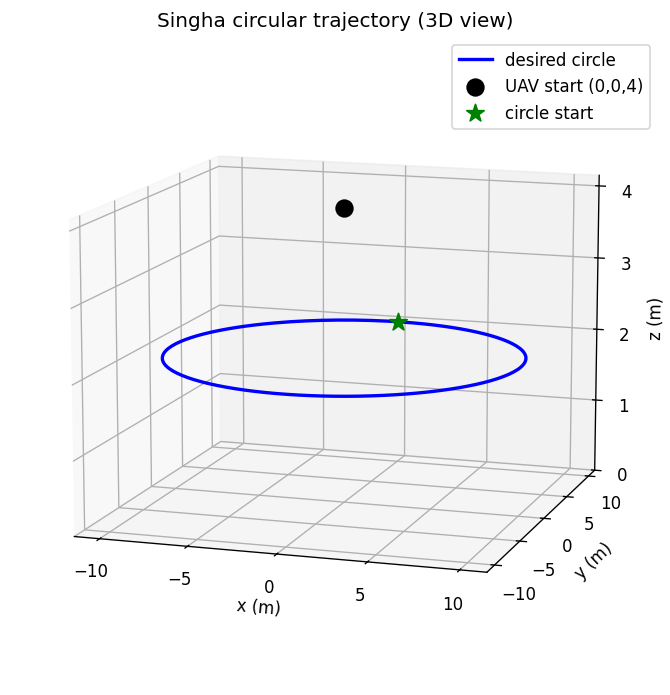
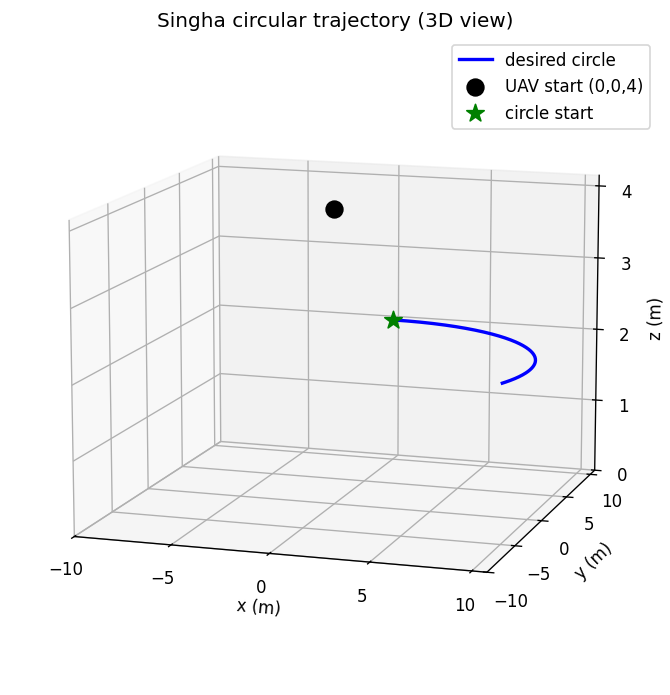
Add circle scenario: refernce, flight (R=10 omega=0.3), dataset, observer training + eval

diff --git a/scenarios/circle/train_circle.py b/scenarios/circle/train_circle.py
@@ -1,0 +1,71 @@
+"""Train PINN observer on the circle dataset."""
+import sys, os
+# 2 levels deep (scenarios/circle/) -> 3 dirnames to reach repo root
+sys.path.append(os.path.dirname(os.path.dirname(os.path.dirname(os.path.abspath(__file__)))))
+
+import numpy as np, torch
+from models.pinn_observer import PINNObserver
+from training.losses import physics_loss      # shared loss stays in training/
+
+torch.manual_seed(0)
+N_EPOCHS = 600; LR = 1e-3; NOISE_STD = 0.02
+LAMBDA_PHYS = 1.0; LAMBDA_INIT = 1.0; BATCH = 2000
+
+data = np.load("datasets/circle_dataset.npz")
+T = data["T"]; X = data["X"]; U = data["U"]
+N_traj, N_steps, n_states = X.shape
+
+X_all = X.reshape(-1, n_states)
+sigma = X_all.std(axis=0)
+sigma = np.where(sigma < 1e-6, 1.0, sigma)
+sigma_t = torch.tensor(sigma, dtype=torch.float32)
+print("Per-state sigma:", np.round(sigma, 3))
+
+t_flat = np.tile(T, N_traj).reshape(-1, 1)
+U_flat = U.reshape(-1, 4)
+rng = np.random.default_rng(0)
+Y_flat = X_all + rng.normal(0, NOISE_STD, X_all.shape)
+N_samples = X_all.shape[0]
+X0 = X[:, 0, :]; t0 = np.zeros((N_traj, 1))
+Y0 = X0 + rng.normal(0, NOISE_STD, X0.shape)
+
+t_all = torch.tensor(t_flat, dtype=torch.float32)
+Y_all = torch.tensor(Y_flat, dtype=torch.float32)
+U_all = torch.tensor(U_flat, dtype=torch.float32)
+t0_t = torch.tensor(t0, dtype=torch.float32)
+Y0_t = torch.tensor(Y0, dtype=torch.float32)
+X0_t = torch.tensor(X0, dtype=torch.float32)
+
+def dl(m,t,y,s): return torch.mean(((m(t,y)-y)/s)**2)
+def il(m,t,y,x,s): return torch.mean(((m(t,y)-x)/s)**2)
+
+model = PINNObserver(hidden=256, n_hidden_layers=3)   # v3 capacity (best)
+opt = torch.optim.Adam(model.parameters(), lr=LR)
+gen = np.random.default_rng(1)
+
+print(f"\nNetwork 3x256 | Batch {BATCH} | Epochs {N_EPOCHS}")
+print("Epoch |   Total  |   Data   | Physics  | Initial")
+print("-"*52)
+for e in range(N_EPOCHS):
+    idx = gen.integers(0, N_samples, size=BATCH)
+    tb, yb, ub = t_all[idx], Y_all[idx], U_all[idx]
+    opt.zero_grad()
+    ld = dl(model, tb, yb, sigma_t)
+    lp = physics_loss(model, tb, yb, ub)
+    li = il(model, t0_t, Y0_t, X0_t, sigma_t)
+    tot = ld + LAMBDA_PHYS*lp + LAMBDA_INIT*li
+    tot.backward(); opt.step()
+    if e%30==0 or e==N_EPOCHS-1:
+        print(f"{e:5d} | {tot.item():8.4f} | {ld.item():8.4f} | {lp.item():8.4f} | {li.item():8.4f}")
+
+torch.save(model.state_dict(), "models/pinn_circle.pth")
+print("\nSaved -> models/pinn_circle.pth")
+
+# per-state RMS error (to measure which states improved)
+with torch.no_grad():
+    est = model(t_all, Y_all).numpy()
+per_state_err = np.sqrt(((est - X_all)**2).mean(axis=0))
+names = ["x","y","z","vx","vy","vz","phi","th","psi","p","q","r"]
+print("\nPer-state RMS error (err / sigma = relative):")
+for n, e, s in zip(names, per_state_err, sigma):
+    print(f"  {n:4s}: err={e:7.3f}  sigma={s:6.3f}  relative={e/s:6.1%}")

diff --git a/scenarios/circle/simulate_circle.py b/scenarios/circle/simulate_circle.py
@@ -55,8 +55,12 @@ def outer_loop_ff(x, U1, pos_d, vel_d, psi):
 
 # ===== simulate =====
 x0 = np.zeros(12)
-x0[0], x0[1], x0[2] = 0.0, 0.0, 4.0          # Singha start (0,0,4)
-x0[6], x0[7], x0[8] = 0.087, 0.1042, 0.209   # Singha initial angles
+# ISOLATION TEST: teleport onto the circle at t=0, moving with it
+pos0, vel0, _ = circular_reference(0.0)      # circle's position & velocity at t=0
+x0[0], x0[1], x0[2] = pos0                    # pos = (0, 10, 2)
+x0[3], x0[4], x0[5] = vel0                    # vel = (10, 0, 0)  <- matches circle motion
+# small initial tilt (Singha angles), yaw matches yaw_reference(0)=0
+x0[6], x0[7], x0[8] = 0.087, 0.1042, 0.0
 
 t_end = 4*np.pi                               # ~2 full circles
 t_eval = np.arange(0.0, t_end, 0.01)
@@ -74,16 +78,20 @@ P = np.array([circular_reference(t)[0] for t in t_eval])
 
 # 3D plot: ACTUAL connected flight path + desired circle
 # DIAGNOSTIC: every key variable vs time
+# use the solver's ACTUAL returned times (handles early-stop safely)
+tt = sol.t
+P = np.array([circular_reference(t)[0] for t in tt])
+
 fig, ax = plt.subplots(2, 3, figsize=(15, 8))
-ax[0,0].plot(t_eval, x, 'b', label='actual'); ax[0,0].plot(t_eval, P[:,0], 'r--', label='desired'); ax[0,0].set_title("x"); ax[0,0].legend()
-ax[0,1].plot(t_eval, y, 'b'); ax[0,1].plot(t_eval, P[:,1], 'r--'); ax[0,1].set_title("y")
-ax[0,2].plot(t_eval, z, 'b'); ax[0,2].axhline(2, color='r', ls='--'); ax[0,2].set_title("z (target=2)")
-ax[1,0].plot(t_eval, sol.y[6], 'g'); ax[1,0].set_title("phi (roll angle)")
-ax[1,1].plot(t_eval, sol.y[7], 'g'); ax[1,1].set_title("theta (pitch angle)")
-ax[1,2].plot(t_eval, sol.y[2], 'b'); ax[1,2].set_title("z (zoomed early)"); ax[1,2].set_xlim(0, 2)
+ax[0,0].plot(tt, x, 'b', label='actual'); ax[0,0].plot(tt, P[:,0], 'r--', label='desired'); ax[0,0].set_title("x"); ax[0,0].legend()
+ax[0,1].plot(tt, y, 'b'); ax[0,1].plot(tt, P[:,1], 'r--'); ax[0,1].set_title("y")
+ax[0,2].plot(tt, z, 'b'); ax[0,2].axhline(2, color='r', ls='--'); ax[0,2].set_title("z (target=2)")
+ax[1,0].plot(tt, sol.y[6], 'g'); ax[1,0].set_title("phi (roll)")
+ax[1,1].plot(tt, sol.y[7], 'g'); ax[1,1].set_title("theta (pitch)")
+ax[1,2].plot(tt, z, 'b'); ax[1,2].axhline(2, color='r', ls='--'); ax[1,2].set_title("z (zoom)"); ax[1,2].set_xlim(0, 3)
 for a in ax.flat: a.grid(alpha=0.3); a.set_xlabel("t(s)")
-plt.tight_layout(); plt.savefig("docs/circle_debug.png", dpi=120, bbox_inches="tight")
-print("Saved -> docs/circle_debug.png")
+plt.tight_layout(); plt.savefig("docs/circle_iso_debug.png", dpi=120, bbox_inches="tight")
+print("Saved -> docs/circle_iso_debug.png")
 
 # also print NUMERIC symptoms at key times
 for tc in [0.0, 0.5, 1.0, 2.0]:

diff --git a/scenarios/circle/generate_circle_data.py b/scenarios/circle/generate_circle_data.py
@@ -1,0 +1,46 @@
+"""Generate dataset from circle-tracking flights (for the observer)."""
+import sys, os
+sys.path.append(os.path.dirname(os.path.dirname(os.path.dirname(os.path.abspath(__file__)))))
+
+import numpy as np
+from scipy.integrate import solve_ivp
+from core.generate_quadrotor_data import quadrotor_dynamics
+from simulate_circle import full_control_circle
+from circle_reference import circular_reference, OMEGA
+
+
+def generate_circle_dataset(N=50, dt=0.01, seed=0):
+    t_end = 2*np.pi/OMEGA          # one full loop
+    t_eval = np.arange(0.0, t_end, dt)
+    rng = np.random.default_rng(seed)
+
+    all_traj, all_u = [], []
+    for i in range(N):
+        # start near the circle's t=0 point, with small random scatter
+        pos0, vel0, _ = circular_reference(0.0)
+        x0 = np.zeros(12)
+        x0[0:3] = pos0 + rng.uniform(-0.5, 0.5, 3)   # small position scatter
+        x0[3:6] = vel0                                # match circle velocity
+        x0[6] = rng.normal(0, 0.05)                   # small tilt scatter
+        x0[7] = rng.normal(0, 0.05)
+
+        sol = solve_ivp(
+            lambda t, x: quadrotor_dynamics(t, x, full_control_circle(t, x)),
+            (0.0, t_end), x0, t_eval=t_eval, max_step=0.02)
+        traj = sol.y.T
+        u_traj = np.array([full_control_circle(t_eval[k], traj[k]) for k in range(traj.shape[0])])
+        all_traj.append(traj)
+        all_u.append(u_traj)
+
+    return t_eval, np.array(all_traj), np.array(all_u)
+
+
+if __name__ == "__main__":
+    T, X, U = generate_circle_dataset(N=50)
+    print("States shape:", X.shape)
+    print("Control shape:", U.shape)
+    print(f"x range: [{X[:,:,0].min():.1f}, {X[:,:,0].max():.1f}]  (circle radius ~10)")
+    print(f"z mean: {X[:,:,2].mean():.2f}  (should be ~2)")
+    print(f"yaw std: {X[:,:,8].std():.4f}  (excited by 0.2 sin)")
+    np.savez("datasets/circle_dataset.npz", T=T, X=X, U=U)
+    print("Saved -> datasets/circle_dataset.npz")

diff --git a/scenarios/circle/evaluate_circle.py b/scenarios/circle/evaluate_circle.py
@@ -1,0 +1,40 @@
+"""Evaluate the PINN observer on circle-tracking flight, all 12 states."""
+import sys, os
+sys.path.append(os.path.dirname(os.path.dirname(os.path.dirname(os.path.abspath(__file__)))))
+
+import numpy as np, torch
+import matplotlib.pyplot as plt
+from models.pinn_observer import PINNObserver
+
+NOISE_STD = 0.02; TRAJ_IDX = 0
+STATE_INFO = [("x","m"),("y","m"),("z","m"),
+    ("x_dot","m/s"),("y_dot","m/s"),("z_dot","m/s"),
+    ("phi","rad"),("theta","rad"),("psi (yaw)","rad"),
+    ("phi_dot","rad/s"),("theta_dot","rad/s"),("psi_dot","rad/s")]
+
+data = np.load("datasets/circle_dataset.npz")
+T = data["T"]; X = data["X"]
+x_true = X[TRAJ_IDX]
+rng = np.random.default_rng(0)
+y_noisy = x_true + rng.normal(0, NOISE_STD, x_true.shape)
+t_t = torch.tensor(T.reshape(-1,1), dtype=torch.float32)
+y_t = torch.tensor(y_noisy, dtype=torch.float32)
+
+m = PINNObserver(hidden=256, n_hidden_layers=3)
+m.load_state_dict(torch.load("models/pinn_circle.pth")); m.eval()
+with torch.no_grad():
+    x_est = m(t_t, y_t).numpy()
+
+fig, axes = plt.subplots(4, 3, figsize=(15, 12)); axes = axes.flatten()
+for i,(name,unit) in enumerate(STATE_INFO):
+    ax = axes[i]
+    ax.plot(T, x_true[:,i], 'g-', lw=2, label="True")
+    ax.plot(T, y_noisy[:,i], 'k.', ms=1.2, alpha=0.15, label="Noisy")
+    ax.plot(T, x_est[:,i], 'b-', lw=1.1, label="Est")
+    ax.set_title(f"{name} [{unit}]", fontsize=11); ax.grid(alpha=0.3)
+    if i==0: ax.legend(fontsize=8)
+fig.suptitle("Circle scenario: observer on all 12 states", fontsize=15)
+fig.tight_layout(rect=[0,0,1,0.98])
+os.makedirs("docs", exist_ok=True)
+plt.savefig("docs/eval_circle.png", dpi=110, bbox_inches="tight")
+print("Saved -> docs/eval_circle.png")

diff --git a/scenarios/circle/circle_reference.py b/scenarios/circle/circle_reference.py
@@ -2,22 +2,23 @@
 import numpy as np
 
 R = 10.0          # radius (Singha)
-Z_LEVEL = 2.0     # circling height (Singha)
+OMEGA = 0.3       # angular rate (lowered so ω²R = 0.9 m/s² << g)
+Z_LEVEL = 2.0
 
 
 def circular_reference(t):
-    """Desired pos, vel, acc for Singha's circular trajectory at time t."""
+    w = OMEGA
     # position
-    x_d = R * np.sin(t)
-    y_d = R * np.cos(t)
+    x_d = R * np.sin(w*t)
+    y_d = R * np.cos(w*t)
     z_d = Z_LEVEL
-    # velocity (1st derivative)
-    xdot_d =  R * np.cos(t)
-    ydot_d = -R * np.sin(t)
+    # velocity (×w)
+    xdot_d =  R * w * np.cos(w*t)
+    ydot_d = -R * w * np.sin(w*t)
     zdot_d = 0.0
-    # acceleration (2nd derivative)
-    xddot_d = -R * np.sin(t)
-    yddot_d = -R * np.cos(t)
+    # acceleration (×w²)
+    xddot_d = -R * w**2 * np.sin(w*t)
+    yddot_d = -R * w**2 * np.cos(w*t)
     zddot_d = 0.0
     return (np.array([x_d, y_d, z_d]),
             np.array([xdot_d, ydot_d, zdot_d]),
@@ -25,9 +26,9 @@ def circular_reference(t):
 
 
 def yaw_reference(t):
-    """Desired yaw and yaw-rate (Singha: 0.2 sin t)."""
-    psi_d = 0.2 * np.sin(t)
-    psi_d_dot = 0.2 * np.cos(t)
+    w = OMEGA
+    psi_d = 0.2 * np.sin(w*t)
+    psi_d_dot = 0.2 * w * np.cos(w*t)
     return psi_d, psi_d_dot
 
 
@@ -42,7 +43,7 @@ if __name__ == "__main__":
         print(f"t={t:.2f}:  pos={np.round(pos,2)}  vel={np.round(vel,2)}  yaw={psi:.3f}")
 
     # plot the circle in 3D (so it looks 3D, as you wanted)
-    ts = np.linspace(0, 2*np.pi, 200)
+    ts = np.linspace(0, 2*np.pi/OMEGA, 400)
     P = np.array([circular_reference(t)[0] for t in ts])
     fig = plt.figure(figsize=(9, 7))
     ax = fig.add_subplot(111, projection='3d')
